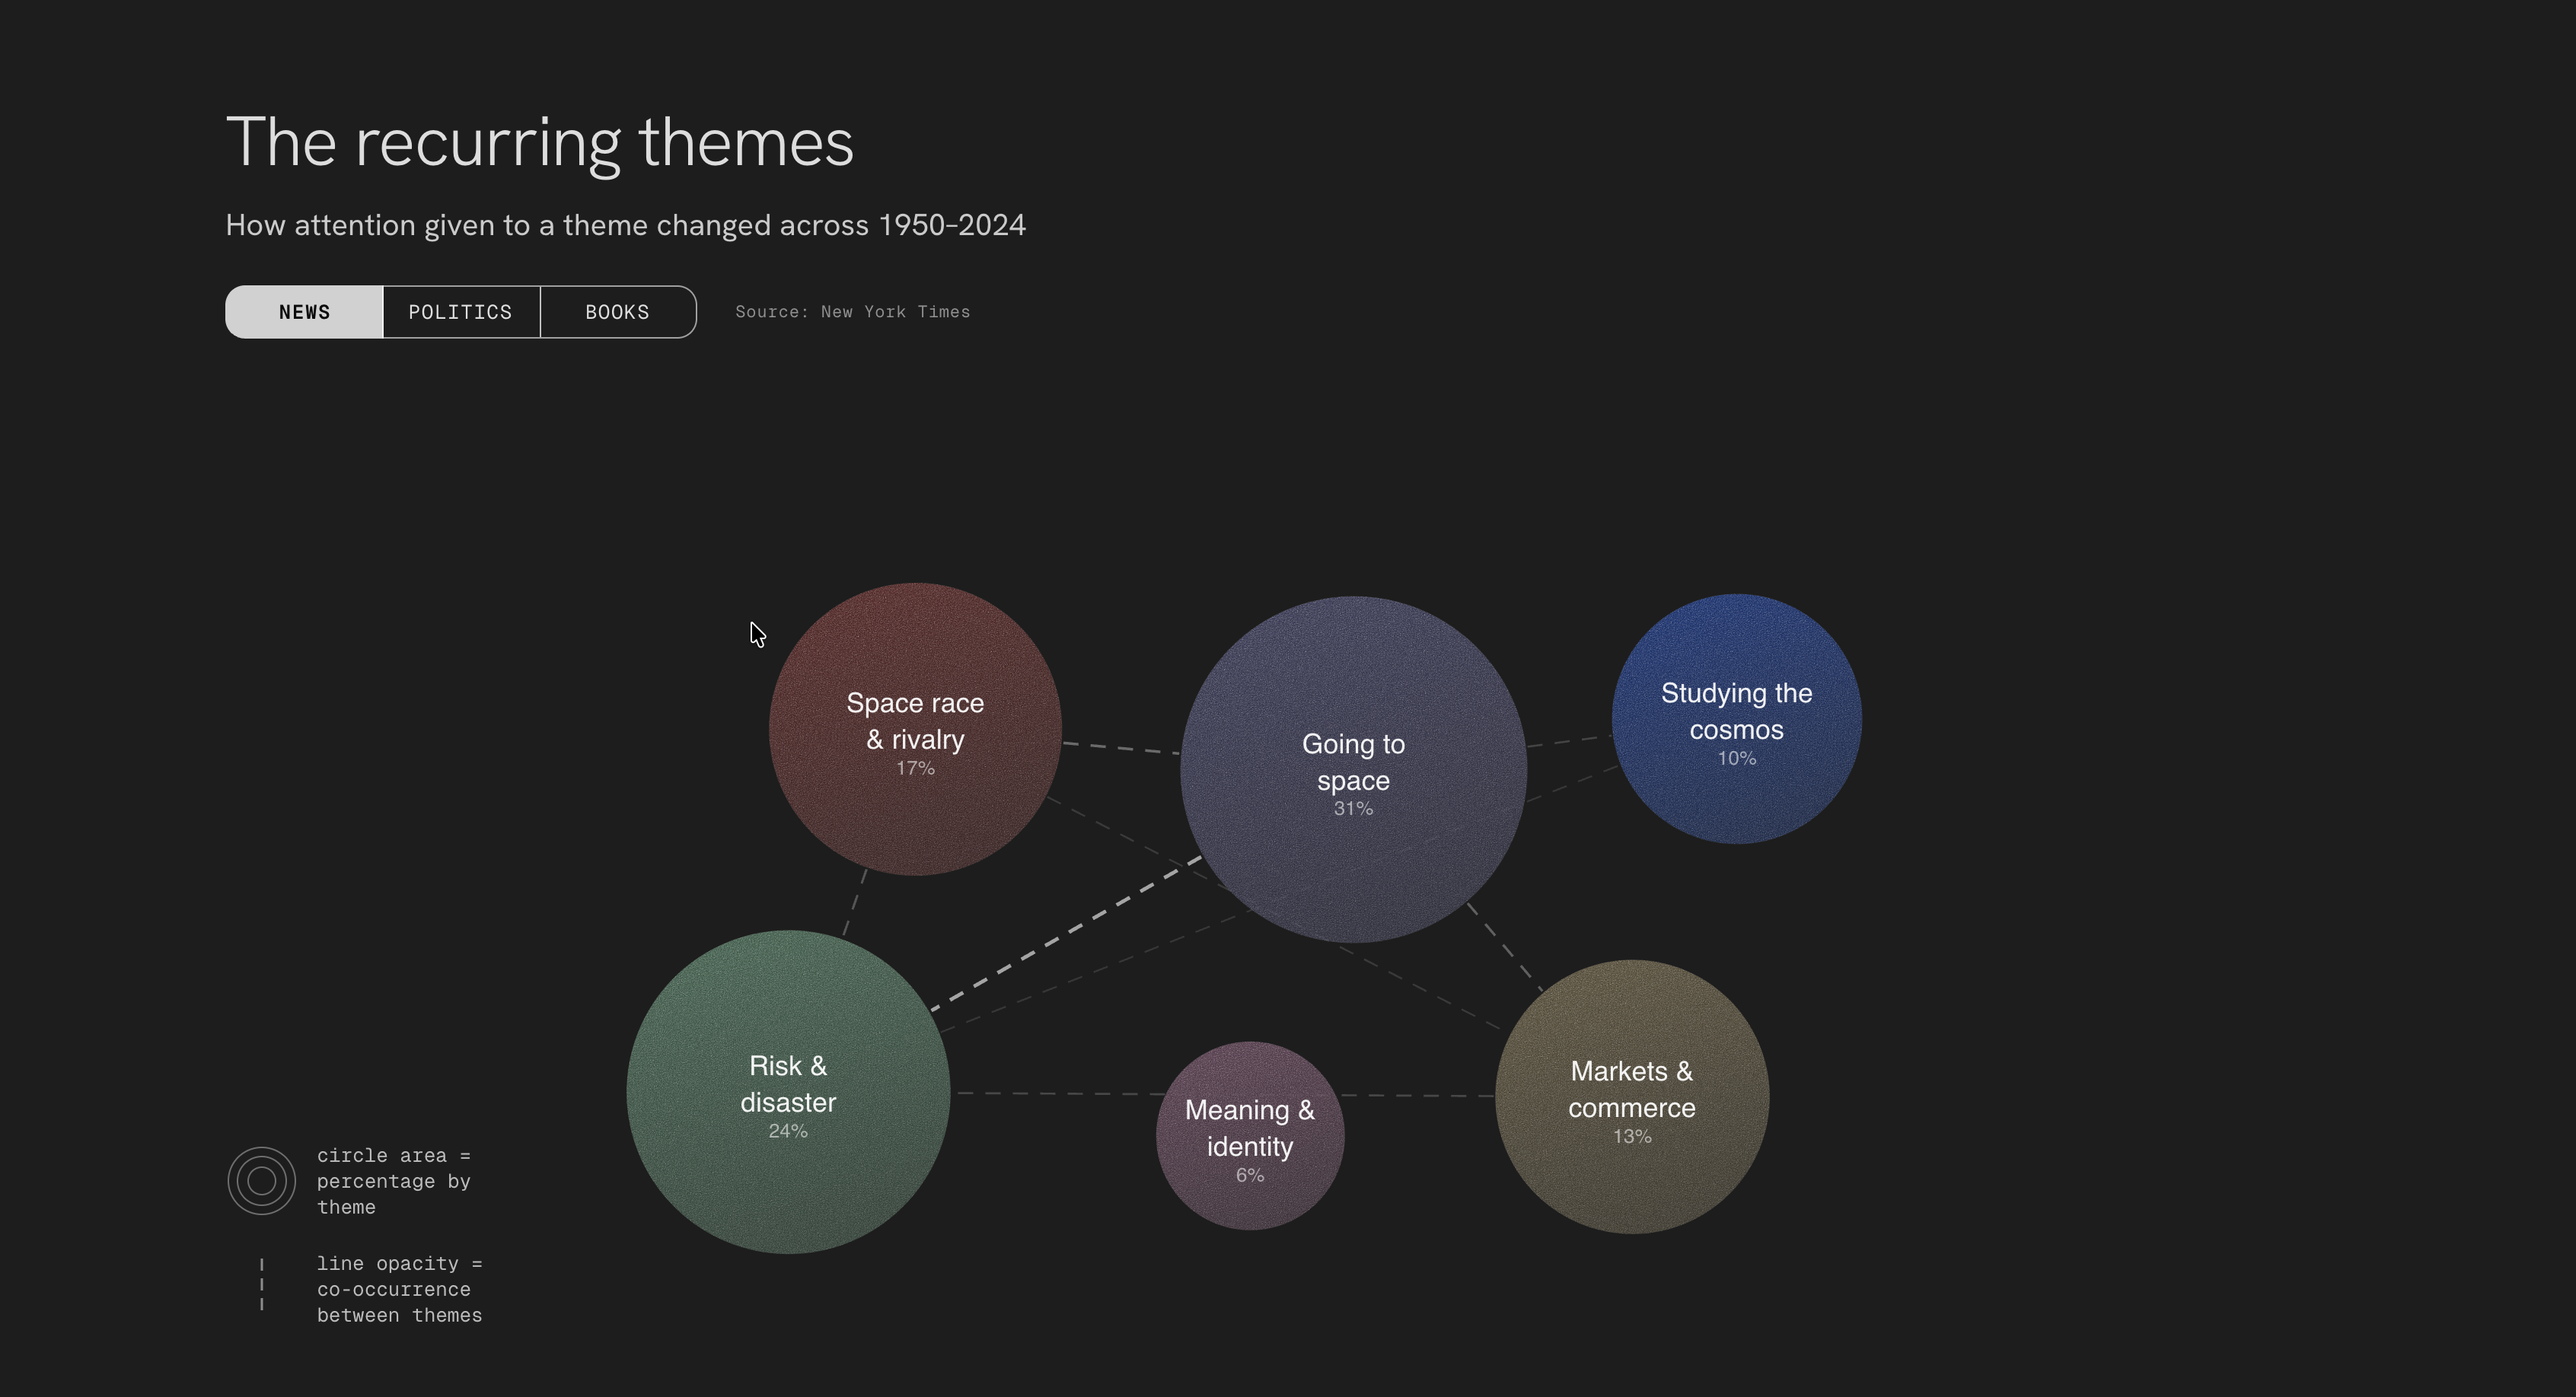
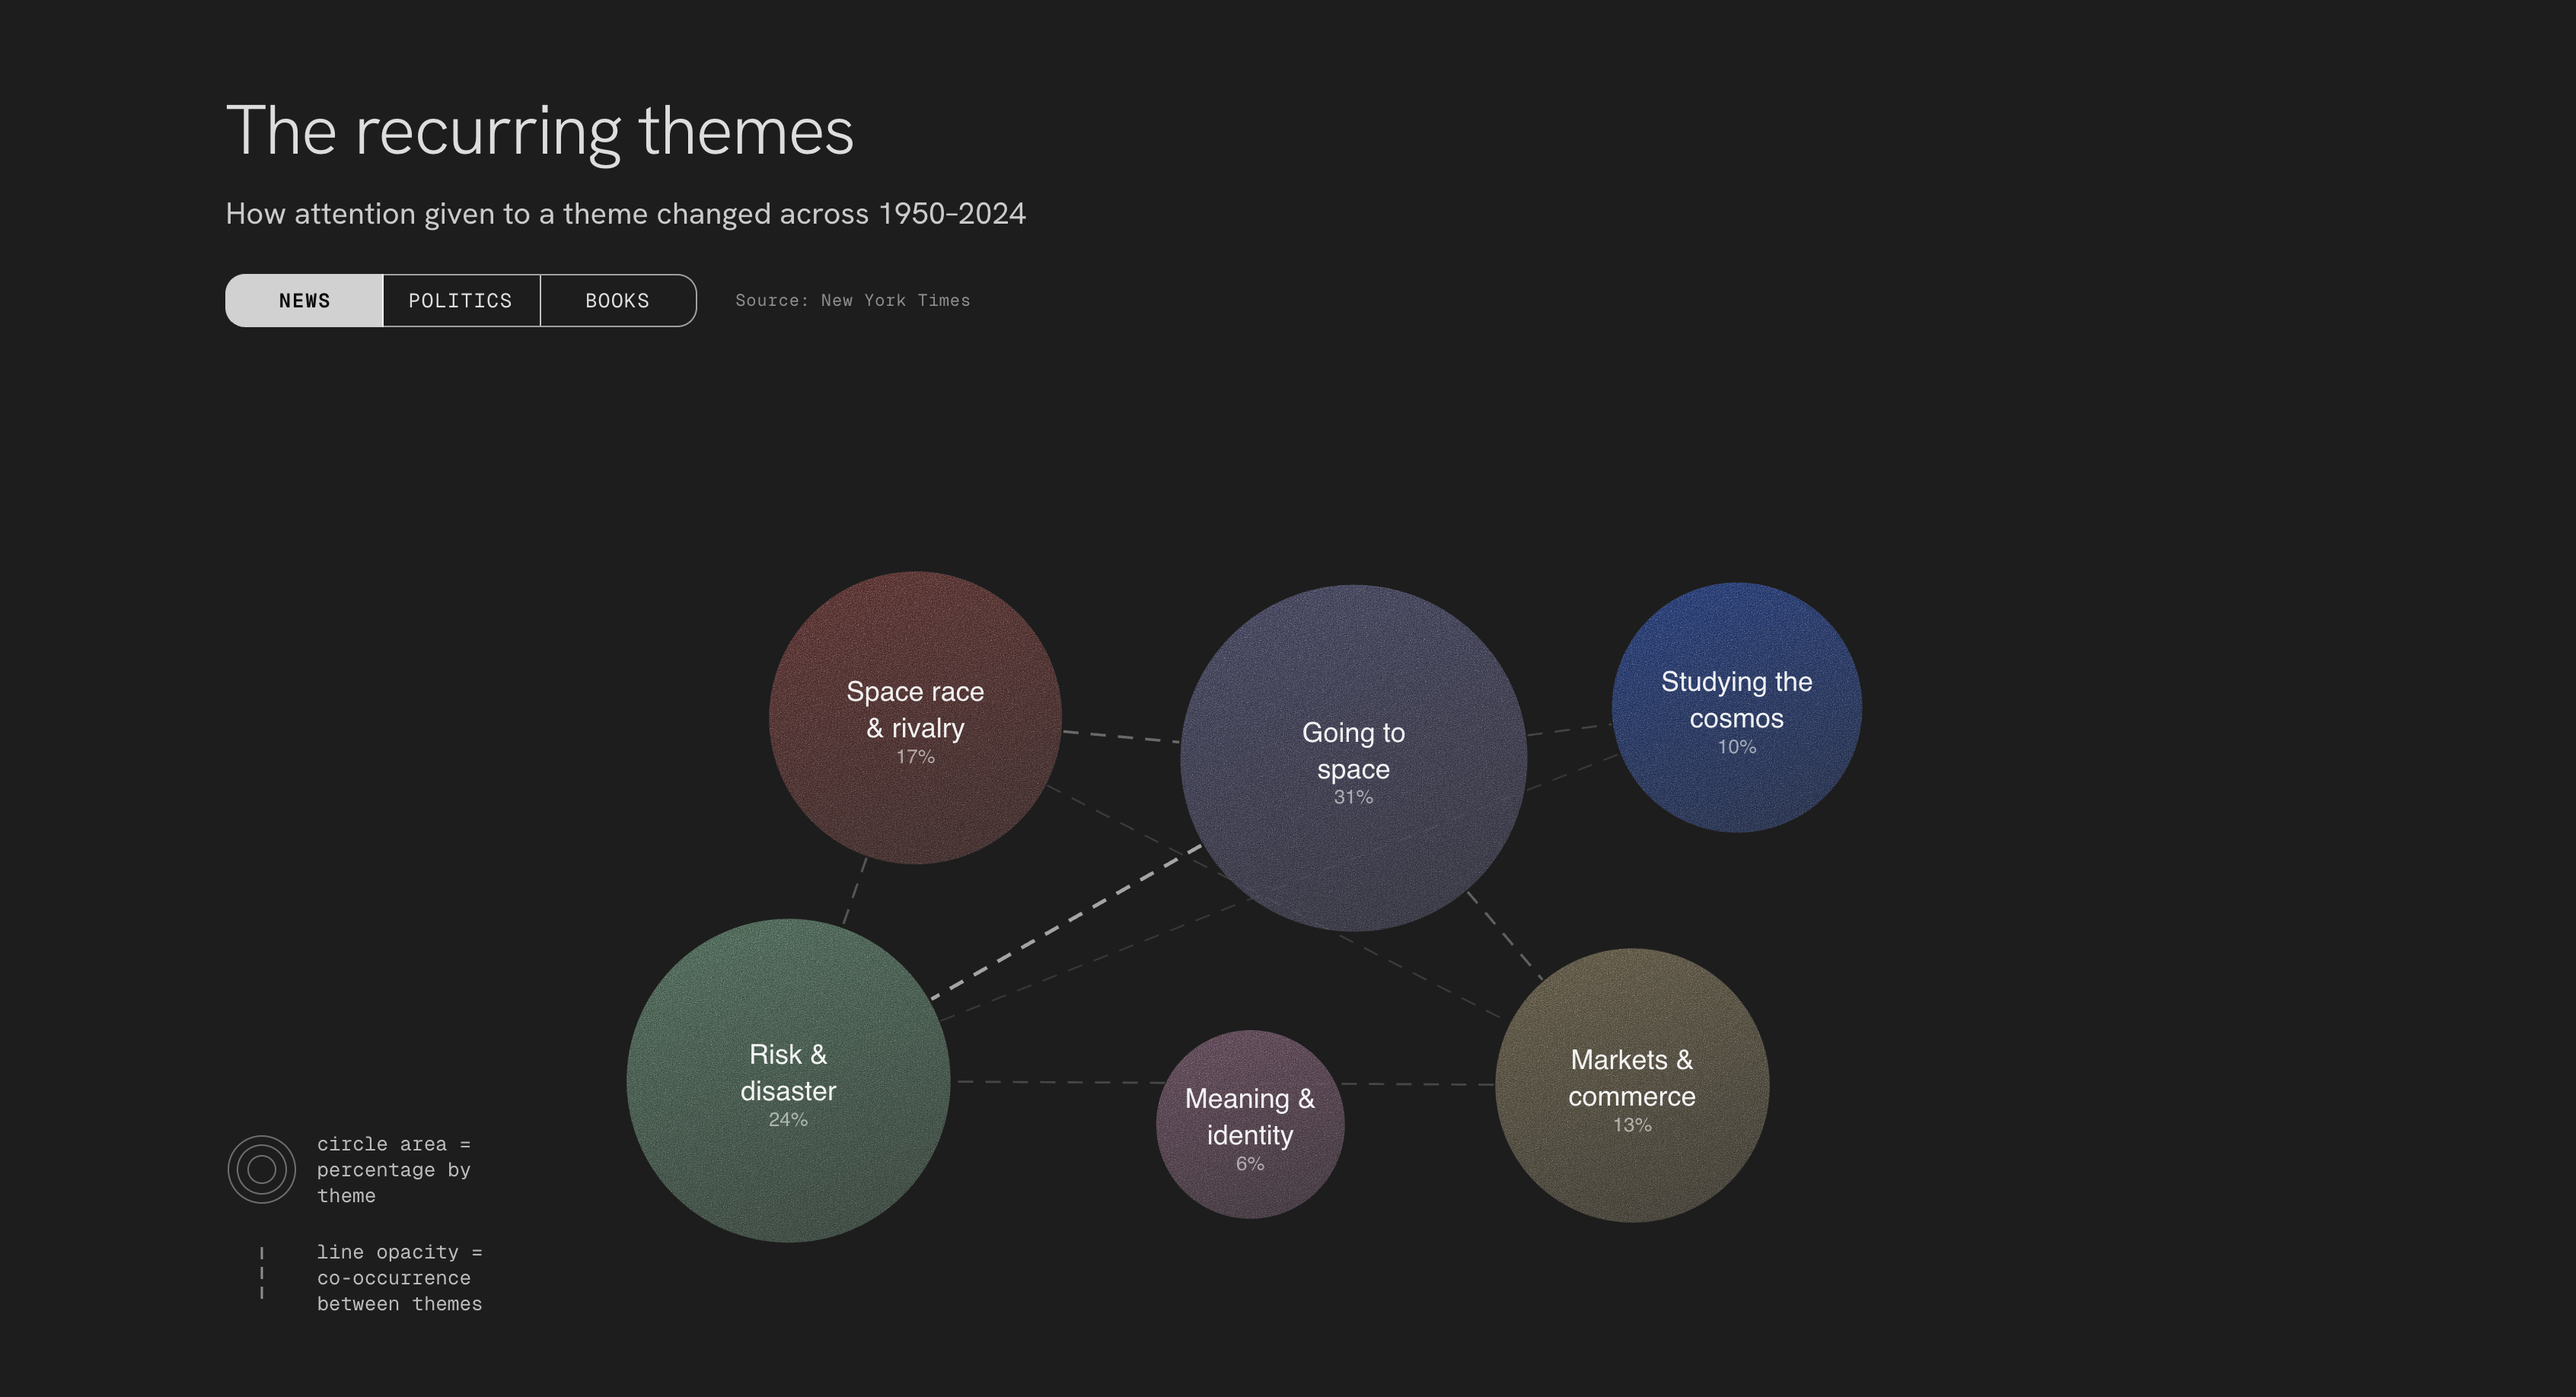
READ me images

diff --git a/README.md b/README.md
@@ -16,6 +16,8 @@ Together, these layers frame outer space as a cultural and political object, exp
 
 ![themes bubble chart](images/bubble-chart.png)
 
+![actors rank chart](images/rank-chart.png)
+
 ![themes - markets](images/bubble-chart-decade.png)
 
 ![objects diagram](images/objects-diagram.png)
